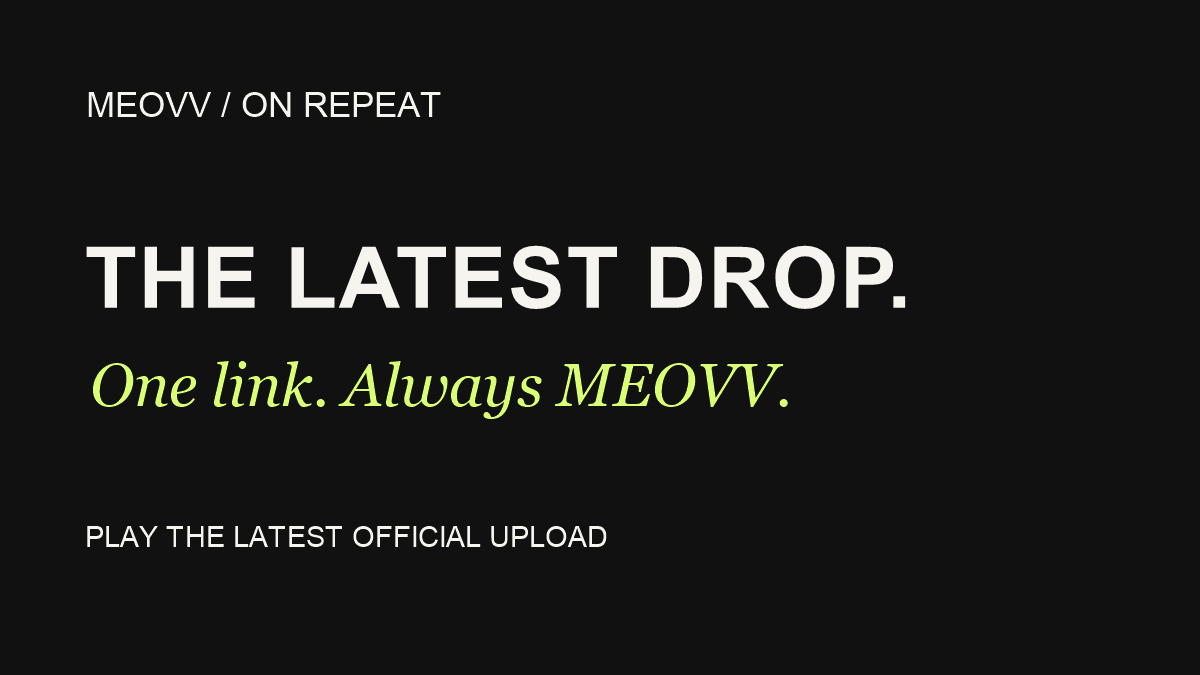
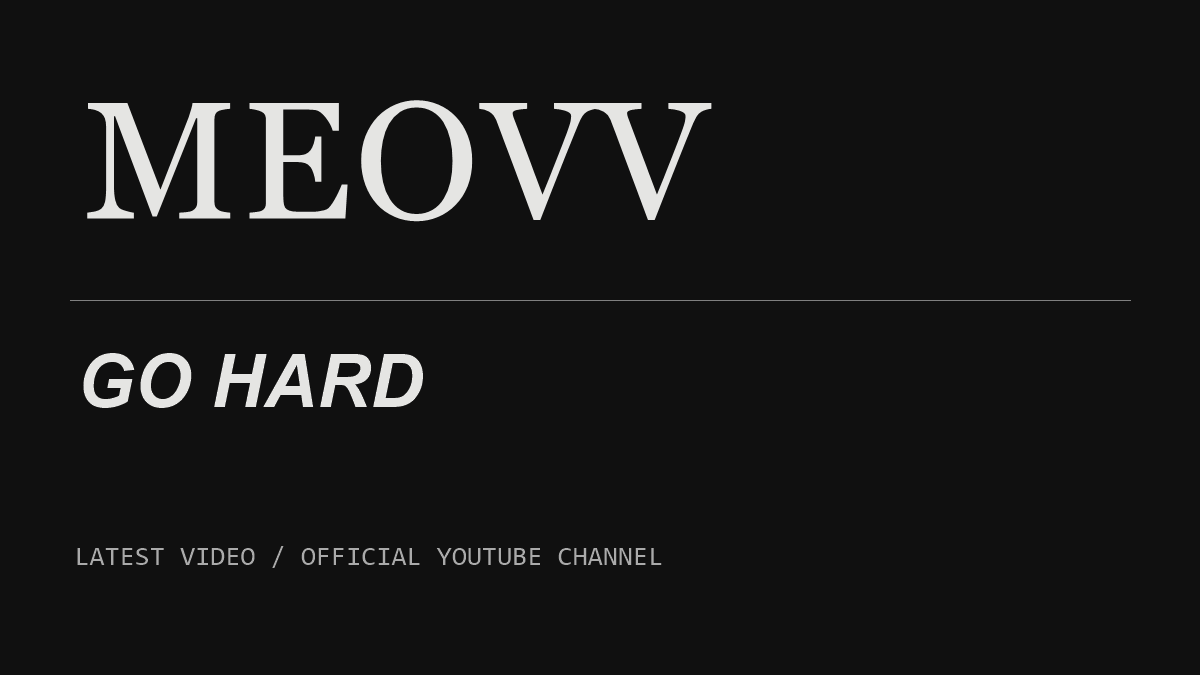
Restyle latest video page around GO HARD monochrome palette

Changed region(s): [[0.0617, 0.1244, 0.7708, 0.4667], [0.0617, 0.4978, 0.6475, 0.6222], [0.0617, 0.7778, 0.555, 0.84]]

diff --git a/public/style.css b/public/style.css
@@ -1,1 +1,1 @@
-*{box-sizing:border-box}body{margin:0;background:#101110;color:#f6f4ef;font-family:Arial,Helvetica,sans-serif}main{max-width:1120px;margin:auto;padding:0 40px}a{color:inherit;text-decoration:none}a:focus-visible{outline:2px solid #d9ff75;outline-offset:6px}header{height:100px;display:flex;align-items:center;justify-content:space-between;border-bottom:1px solid #353632}.wordmark{font-size:28px;font-weight:900;letter-spacing:-2px}.wordmark span{font-size:10px;letter-spacing:2px;margin-left:16px;color:#aaa}.channel{font-size:12px;border:1px solid #555;border-radius:30px;padding:12px 17px}.intro{padding:58px 0 36px}.eyebrow{font-size:10px;letter-spacing:2px;font-weight:bold;color:#d9ff75}.dot{display:inline-block;width:6px;height:6px;border-radius:100%;background:#d9ff75;margin-right:8px}h1{font-size:clamp(48px,7vw,78px);line-height:.99;letter-spacing:-4px;margin:24px 0}h1 em{font-family:Georgia,serif;font-weight:normal;color:#d9ff75}.subtitle{color:#a6a8a0;font-size:14px}.player{aspect-ratio:16/9;background:#050505;border:1px solid #30322d;border-radius:12px;overflow:hidden;display:flex;align-items:center;justify-content:center;color:#bbb}.player iframe{width:100%;height:100%;border:0}.details{display:flex;justify-content:space-between;align-items:center;gap:24px;padding-top:22px}h2{font-size:20px;line-height:1.4;font-weight:500;max-width:690px;margin:10px 0}.watch{flex-shrink:0;border-radius:30px;background:#d9ff75;color:#171a11;font-size:12px;font-weight:bold;padding:15px 20px}.status{font-size:11px;line-height:1.7;color:#999;max-width:700px;margin-top:18px}footer{display:flex;justify-content:space-between;gap:20px;margin-top:55px;border-top:1px solid #353632;padding:24px 0 30px;color:#8f9189;font-size:10px}footer span:first-child{letter-spacing:2px}.embed{height:100vh;overflow:hidden;background:#000}.embed .player{height:100%;width:100%;border:0;border-radius:0;aspect-ratio:auto}.embed #status{display:none}.embed-link{position:absolute;right:12px;top:10px;background:#111d;padding:7px 10px;border-radius:20px;font-size:11px;color:#fff}@media(max-width:600px){main{padding:0 20px}header{height:78px}.wordmark span{display:none}.intro{padding-top:36px}h1{letter-spacing:-2px}.details{display:block}.watch{display:inline-block;margin-top:12px}footer{flex-direction:column;gap:10px;margin-top:35px}}
+*{box-sizing:border-box}body{margin:0;background:#101010;color:#e5e5e3;font-family:Arial,Helvetica,sans-serif}a{color:inherit;text-decoration:none}a:hover{text-decoration:underline;text-underline-offset:5px}a:focus-visible{outline:2px solid #fff;outline-offset:6px}main{max-width:1080px;margin:auto;padding:0 34px}header{display:flex;justify-content:space-between;align-items:center;gap:20px;padding:35px 0 24px;border-bottom:1px solid #454545}.wordmark{font-family:Georgia,'Times New Roman',serif;font-size:clamp(48px,8vw,88px);font-weight:normal;line-height:1;letter-spacing:-6px}.wordmark:hover{text-decoration:none}.era{text-align:right}.era strong{display:block;font-family:Impact,'Arial Narrow',Arial,sans-serif;font-size:30px;font-style:italic;letter-spacing:-1px}.era span{display:block;margin-top:6px;font:10px 'Courier New',monospace;letter-spacing:2px;color:#aaa}.intro{display:flex;align-items:center;justify-content:space-between;padding:22px 0 18px;gap:16px}.intro h1{font-size:12px;font-weight:normal;letter-spacing:2px;text-transform:uppercase;margin:0}.channel{font-size:11px;color:#aaa}.player{aspect-ratio:16/9;background:#000;overflow:hidden;display:flex;align-items:center;justify-content:center;color:#bbb}.player iframe{width:100%;height:100%;border:0}.details{display:flex;justify-content:space-between;align-items:flex-start;gap:28px;padding-top:22px}.eyebrow{font:10px 'Courier New',monospace;letter-spacing:1px;color:#aaa;margin:0 0 10px}h2{font-size:19px;line-height:1.45;font-weight:normal;max-width:700px;margin:0}.watch{flex-shrink:0;border-bottom:1px solid #999;padding:0 0 6px;font-size:12px;margin-top:22px}.watch:hover{text-decoration:none;border-color:#fff}.status{font:10px/1.7 'Courier New',monospace;color:#999;margin:18px 0 0}footer{display:flex;justify-content:space-between;gap:20px;margin-top:34px;border-top:1px solid #454545;padding:18px 0 24px;color:#999;font:10px/1.5 'Courier New',monospace}footer span:first-child{letter-spacing:1px}.embed{height:100vh;overflow:hidden;background:#000}.embed .player{height:100%;width:100%;aspect-ratio:auto}.embed #status{display:none}.embed-link{position:absolute;right:12px;top:10px;background:#111e;padding:7px 10px;font-size:11px;color:#fff}@media(max-width:600px){main{padding:0 18px}header{padding:27px 0 20px}.wordmark{letter-spacing:-3px}.era strong{font-size:23px}.era span{font-size:8px;letter-spacing:1px}.intro{padding:20px 0 15px}.intro h1{font-size:10px}.channel{font-size:10px}.details{display:block;padding-top:18px}h2{font-size:17px}.watch{display:inline-block;margin-top:16px}footer{flex-direction:column;gap:8px;margin-top:25px}}

diff --git a/public/index.html b/public/index.html
@@ -3,9 +3,11 @@
 <title>MEOVV — latest upload</title><meta name="description" content="The latest upload from MEOVV’s official YouTube channel, refreshed hourly.">
 <meta name="twitter:card" content="player"><meta name="twitter:title" content="MEOVV — latest upload"><meta name="twitter:description" content="Press play for the latest from MEOVV’s official YouTube channel.">
 <meta name="twitter:image" content="__SITE_URL__/card.png"><meta name="twitter:player" content="__SITE_URL__/embed.html"><meta name="twitter:player:width" content="960"><meta name="twitter:player:height" content="540">
-<meta property="og:title" content="MEOVV — latest upload"><meta property="og:description" content="The latest from MEOVV. One link, always fresh."><meta property="og:image" content="__SITE_URL__/card.png"><meta property="og:url" content="__SITE_URL__/"><meta property="og:type" content="website">
+<meta property="og:title" content="MEOVV — latest upload"><meta property="og:description" content="The latest video from the official MEOVV channel."><meta property="og:image" content="__SITE_URL__/card.png"><meta property="og:url" content="__SITE_URL__/"><meta property="og:type" content="website">
 <link rel="stylesheet" href="style.css"><script src="app.js" defer></script></head>
-<body><main><header><a class="wordmark" href="./" aria-label="MEOVV latest home">MEOVV<span> / ON REPEAT</span></a><a class="channel" href="https://www.youtube.com/@MEOVV_OFFICIAL" target="_blank" rel="noopener">Official channel ↗</a></header>
-<section class="intro"><p class="eyebrow"><span class="dot"></span> THE LATEST DROP</p><h1>Never miss<br><em>a moment.</em></h1><p class="subtitle">Fresh from MEOVV’s official YouTube channel.</p></section>
+<body><main>
+<header><a class="wordmark" href="./" aria-label="MEOVV latest home">MEOVV</a><div class="era"><strong>GO HARD</strong><span>SINGLE ALBUM · 2026</span></div></header>
+<section class="intro"><h1>Latest video</h1><a class="channel" href="https://www.youtube.com/@MEOVV_OFFICIAL" target="_blank" rel="noopener">@MEOVV_OFFICIAL ↗</a></section>
 <section aria-label="Latest video"><div class="player" id="player"><p role="status">Loading the latest upload…</p></div><div class="details"><div><p class="eyebrow" id="published">LATEST UPLOAD</p><h2 id="title">MEOVV</h2></div><a class="watch" id="watch" href="https://www.youtube.com/@MEOVV_OFFICIAL" target="_blank" rel="noopener">Watch on YouTube ↗</a></div><p class="status" id="status" role="status"></p></section>
-<footer><span>MEOVV / LATEST</span><span>Independent fan page · Videos from the official channel</span></footer></main></body></html>
+<footer><span>MEOVV / VIDEO</span><span>Unofficial fan page. All videos belong to their respective owners.</span></footer>
+</main></body></html>

diff --git a/public/app.js b/public/app.js
@@ -20,10 +20,11 @@ async function load() {
     const published = document.getElementById('published');
     if (published) published.textContent = 'LATEST UPLOAD / ' + new Date(video.published).toLocaleDateString(undefined,{month:'short',day:'numeric',year:'numeric'});
     const stale = Date.now() - Date.parse(data.checkedAt) > 3*60*60*1000;
-    status.textContent = `${stale ? 'Updates may be delayed. ' : ''}Feed checked ${new Date(data.checkedAt).toLocaleString()}. Refreshes hourly. If playback is unavailable, watch on YouTube.`;
+    status.textContent = `${stale ? 'Updates may be delayed. ' : ''}Updated ${new Date(data.checkedAt).toLocaleString()} · Checked hourly`;
   } catch {
     player.textContent = 'The latest video couldn’t be loaded.';
     status.textContent = 'Please try again shortly, or visit the official channel using the YouTube link.';
   }
 }
 load();
+
